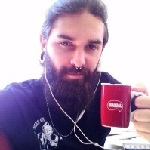
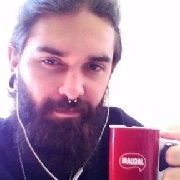
Profile

diff --git a/stylesheets/stylesheet.css b/stylesheets/stylesheet.css
@@ -272,9 +272,9 @@ Full-Width Styles
 }
 
 #profile_pic {
-  width: 150px;
-  height: 150px;
-  border-radius: 75px;
+  width: 180px;
+  height: 180px;
+  border-radius: 90px;
   background: url('../images/profile.jpg') no-repeat;
   float: left;
   margin-right: 30px;
@@ -301,7 +301,7 @@ Full-Width Styles
 #project_title {
   margin: 0;
   color: #fff;
-  font-size: 42px;
+  font-size: 56px;
   font-weight: 700;
   text-shadow: #111 0px 0px 10px;
 }
